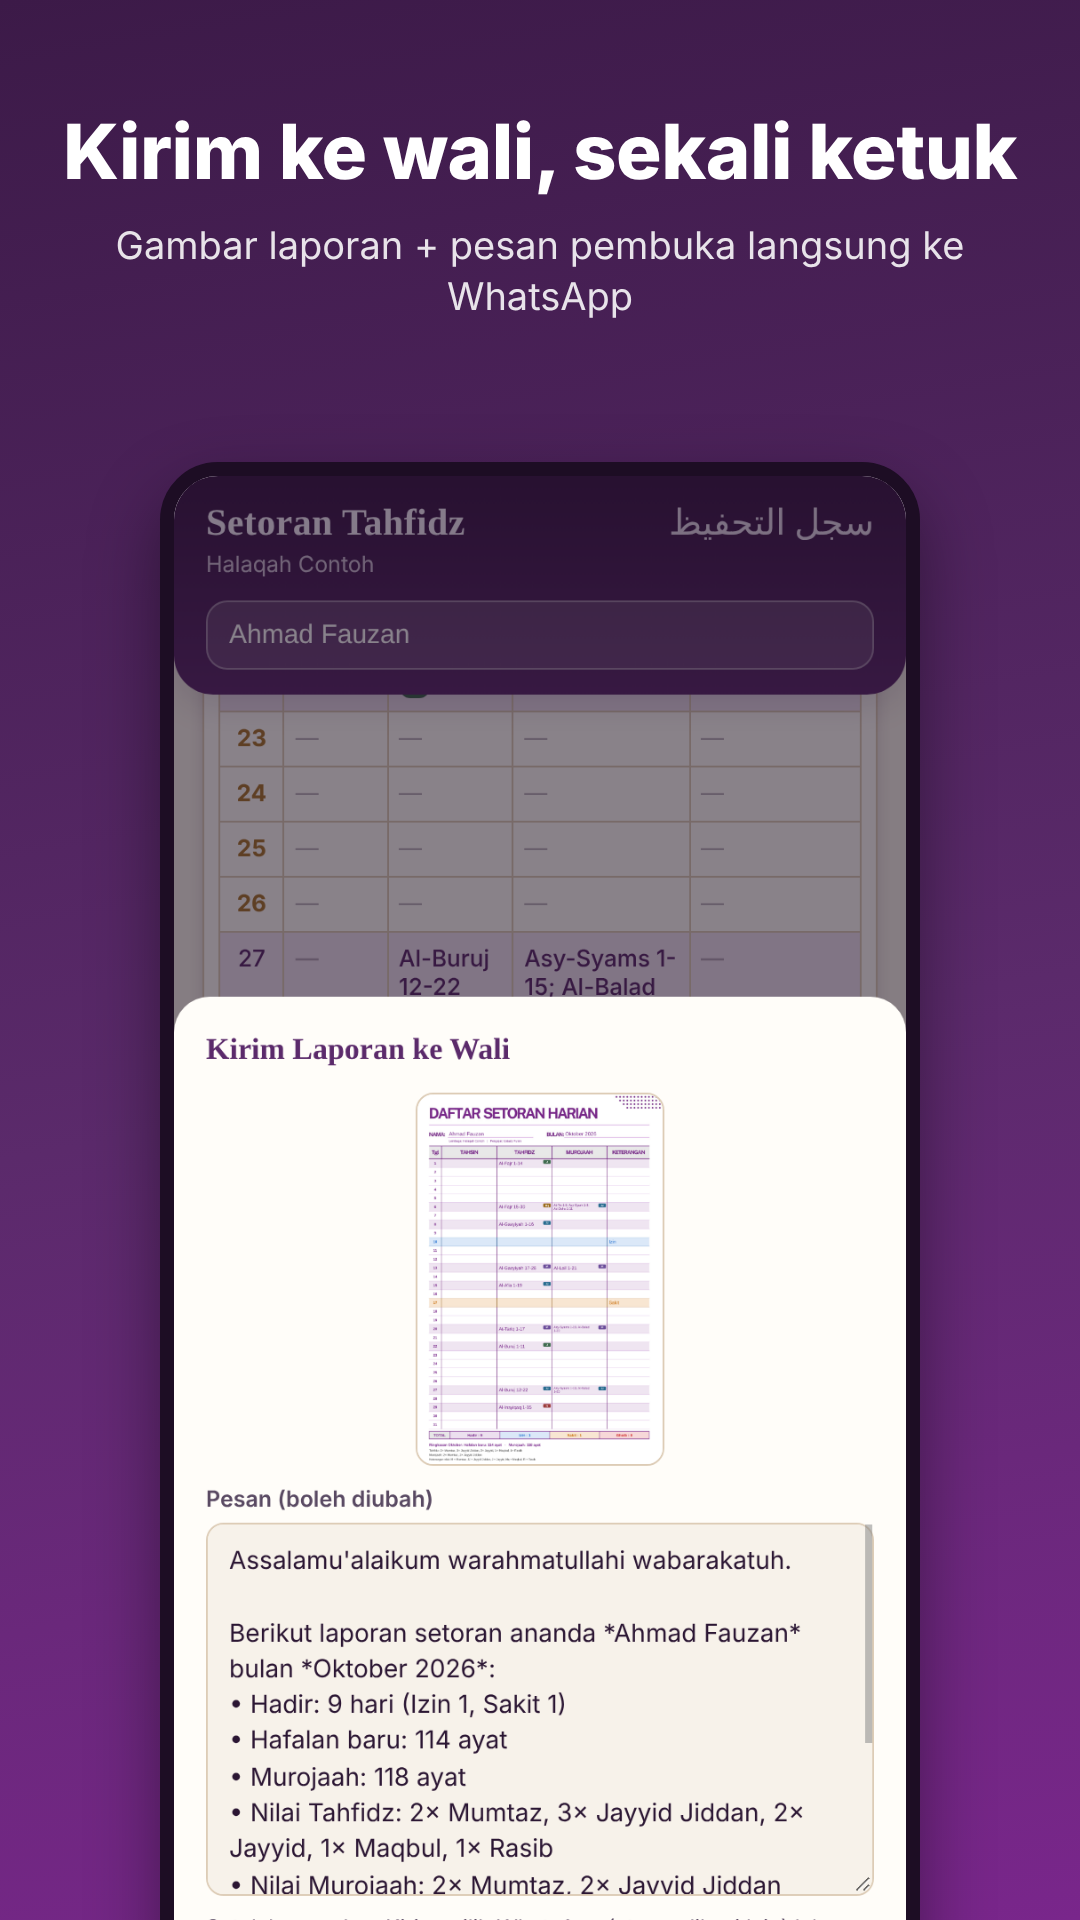
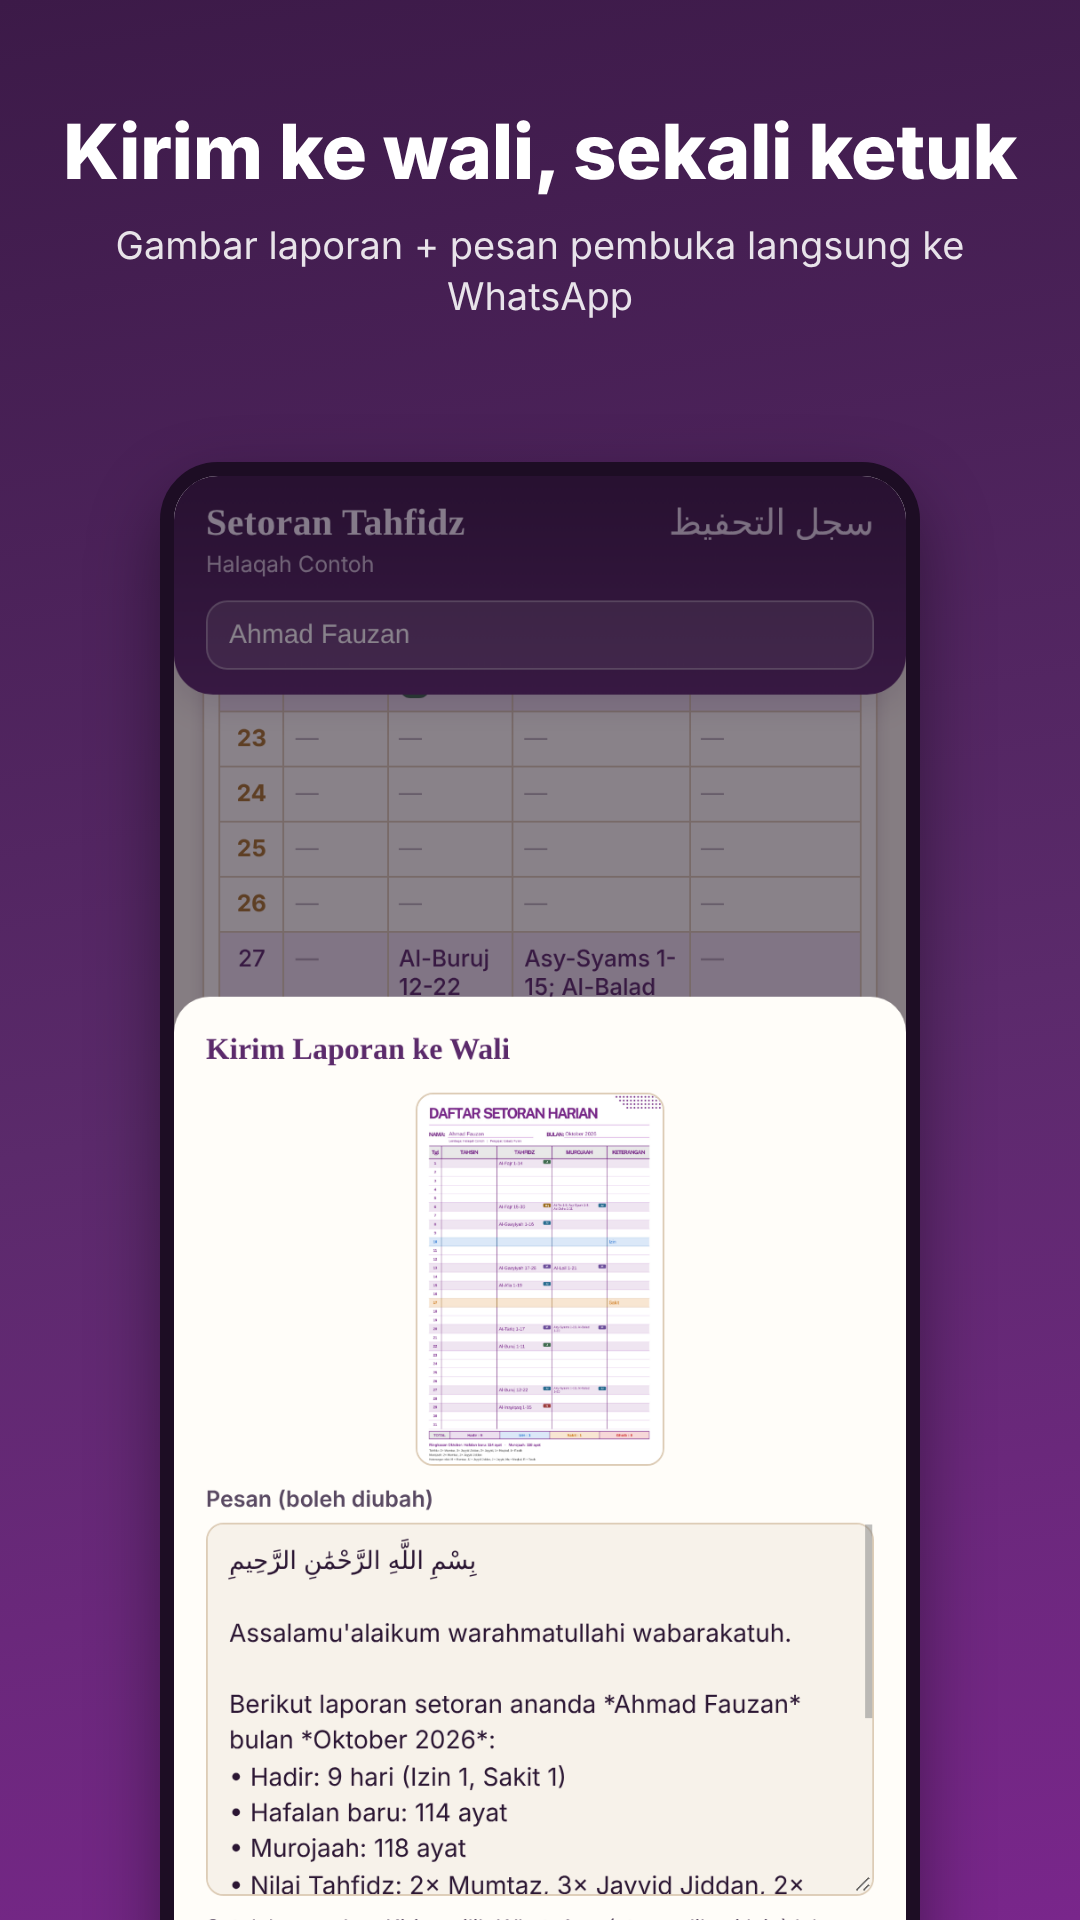
Awali setiap pesan buatan aplikasi dengan basmalah
Pesan Kirim Laporan ke Wali, Kirim Rapor ke Wali, dan Bagikan ringkasan
(teks) kini dimulai dengan 'بِسْمِ اللَّهِ الرَّحْمَٰنِ الرَّحِيمِ' sebelum salam.
Tes dan tangkapan layar diperbarui.

Claude-Session: https://claude.ai/code/session_014gCVuLcPiL3Dco5abXn4Uk

Changed region(s): [[0.2139, 0.8125, 0.7333, 1.0], [0.3667, 0.7812, 0.3972, 0.8125]]

diff --git a/www/index.html b/www/index.html
@@ -2553,7 +2553,7 @@
     if (!s) return "";
     var y = currentMonthDate.getFullYear(), m0 = currentMonthDate.getMonth();
     var t = countMonth(s.id, y, m0);
-    var lines = ["*Laporan Setoran Tahfidz*"];
+    var lines = [PG_BASMALAH, "", "*Laporan Setoran Tahfidz*"];
     if (settings.lembaga.trim()) lines.push(settings.lembaga.trim());
     lines.push(s.name + " - " + BULAN_ID[m0] + " " + y, "",
       "Hadir: " + t.hadir + " | Izin: " + t.izin + " | Sakit: " + t.sakit + " | Ghoib: " + t.ghoib);
@@ -3437,6 +3437,8 @@
   }
 
   // ---- Pesan "Kirim ke wali" (teks WhatsApp; *tebal*) ----
+  // Setiap pesan yang dibuat aplikasi diawali basmalah.
+  var PG_BASMALAH = "بِسْمِ اللَّهِ الرَّحْمَٰنِ الرَّحِيمِ";
   function pgNum(n) { return String(Math.round(n * 10) / 10).replace(".", ",").replace(/\B(?=(\d{3})+(?!\d))/g, "."); }
   function pgWaliSign(d) {
     var who = [d.pengajar, d.lembaga].map(function (x) { return String(x || "").trim(); }).filter(Boolean);
@@ -3447,7 +3449,7 @@
     var att = d.att || {}, ay = d.ayat || {};
     var absent = [["Izin", att.izin], ["Sakit", att.sakit], ["Ghoib", att.ghoib]].filter(function (a) { return a[1] > 0; })
       .map(function (a) { return a[0] + " " + a[1]; });
-    var lines = ["Assalamu'alaikum warahmatullahi wabarakatuh.", "",
+    var lines = [PG_BASMALAH, "", "Assalamu'alaikum warahmatullahi wabarakatuh.", "",
       "Berikut laporan setoran ananda *" + d.name + "* bulan *" + d.bulan + "*:",
       "• Hadir: " + pgNum(att.hadir || 0) + " hari" + (absent.length ? " (" + absent.join(", ") + ")" : "")];
     if (ay.tahfidz || ay.murojaah || ay.tahsin) {
@@ -3461,7 +3463,7 @@
   }
   // d: { name, tanggal, unique, pct, surahDone, juzDone, bulan, cur:{thf,mur}, recent:[{name,cnt,total}], pengajar, lembaga }
   function pgWaliRaporText(d) {
-    var lines = ["Assalamu'alaikum warahmatullahi wabarakatuh.", "",
+    var lines = [PG_BASMALAH, "", "Assalamu'alaikum warahmatullahi wabarakatuh.", "",
       "Berikut rapor progres hafalan ananda *" + d.name + "* per " + d.tanggal + ":",
       "• Total hafalan: " + pgNum(d.unique || 0) + " ayat (" + pgNum(Math.round((d.pct || 0) * 10) / 10) + "% dari Al-Qur'an)",
       "• Surah tuntas: " + pgNum(d.surahDone || 0) + (d.juzDone ? " · Juz tuntas: " + pgNum(d.juzDone) : "")];

diff --git a/tests/ayat-range.test.js b/tests/ayat-range.test.js
@@ -504,6 +504,7 @@ t("pesan kirim ke wali", () => {
   const lap = pgWaliLaporanText({ name: "Khalisa", bulan: "Oktober 2026", att: { hadir: 11, izin: 4, sakit: 2, ghoib: 0 },
     ayat: { tahfidz: 29, murojaah: 1412, tahsin: 0 }, nilai: ["Tahfidz: 3× Mumtaz, 1× Jayyid"], pengajar: "Ustadz Fulan", lembaga: "Ma'had Contoh" });
   assert.strictEqual(lap, [
+    "بِسْمِ اللَّهِ الرَّحْمَٰنِ الرَّحِيمِ", "",
     "Assalamu'alaikum warahmatullahi wabarakatuh.", "",
     "Berikut laporan setoran ananda *Khalisa* bulan *Oktober 2026*:",
     "• Hadir: 11 hari (Izin 4, Sakit 2)", "• Hafalan baru: 29 ayat", "• Murojaah: 1.412 ayat",
@@ -517,6 +518,7 @@ t("pesan kirim ke wali", () => {
   const rap = pgWaliRaporText({ name: "Ahmad", tanggal: "6 November 2026", unique: 352, pct: 5.645, surahDone: 31, juzDone: 0,
     bulan: "November", cur: { thf: 25, mur: 86 }, recent: [{ name: "Al-Insyiqaq", cnt: 10, total: 25 }], pengajar: "Ustadz Fulan" });
   assert.ok(rap.includes("rapor progres hafalan ananda *Ahmad* per 6 November 2026:"));
+  assert.ok(rap.startsWith("بِسْمِ اللَّهِ الرَّحْمَٰنِ الرَّحِيمِ\n\nAssalamu'alaikum"), "rapor diawali basmalah");
   assert.ok(rap.includes("• Total hafalan: 352 ayat (5,6% dari Al-Qur'an)"));
   assert.ok(rap.includes("• Surah tuntas: 31\n"), "juz tuntas 0 tidak ditulis");
   assert.ok(rap.includes("• Bulan November: hafalan baru 25 ayat, murojaah 86 ayat"));

diff --git a/tests/ui/ui.test.js b/tests/ui/ui.test.js
@@ -324,6 +324,7 @@ t("kirim laporan & rapor ke wali: pesan siap pakai + gambar", async (H) => {
   await H.tap("#btnWali");
   await H.ev("for (let i = 0; i < 50 && !document.getElementById('waliModalBackdrop').classList.contains('show'); i++) await new Promise((r) => setTimeout(r, 100));");
   const msg = await H.ev("return document.getElementById('waliText').value;");
+  assert.ok(msg.startsWith("بِسْمِ اللَّهِ الرَّحْمَٰنِ الرَّحِيمِ"), "pesan diawali basmalah");
   assert.match(msg, /ananda \*Ali\* bulan \*Oktober 2026\*/);
   assert.match(msg, /Hadir: 3 hari \(Izin 1\)/);
   assert.match(msg, /Hafalan baru: 50 ayat/);           // Al-Mulk 30 + An-Naba 1-20 (Rasib lalu Maqbul)
